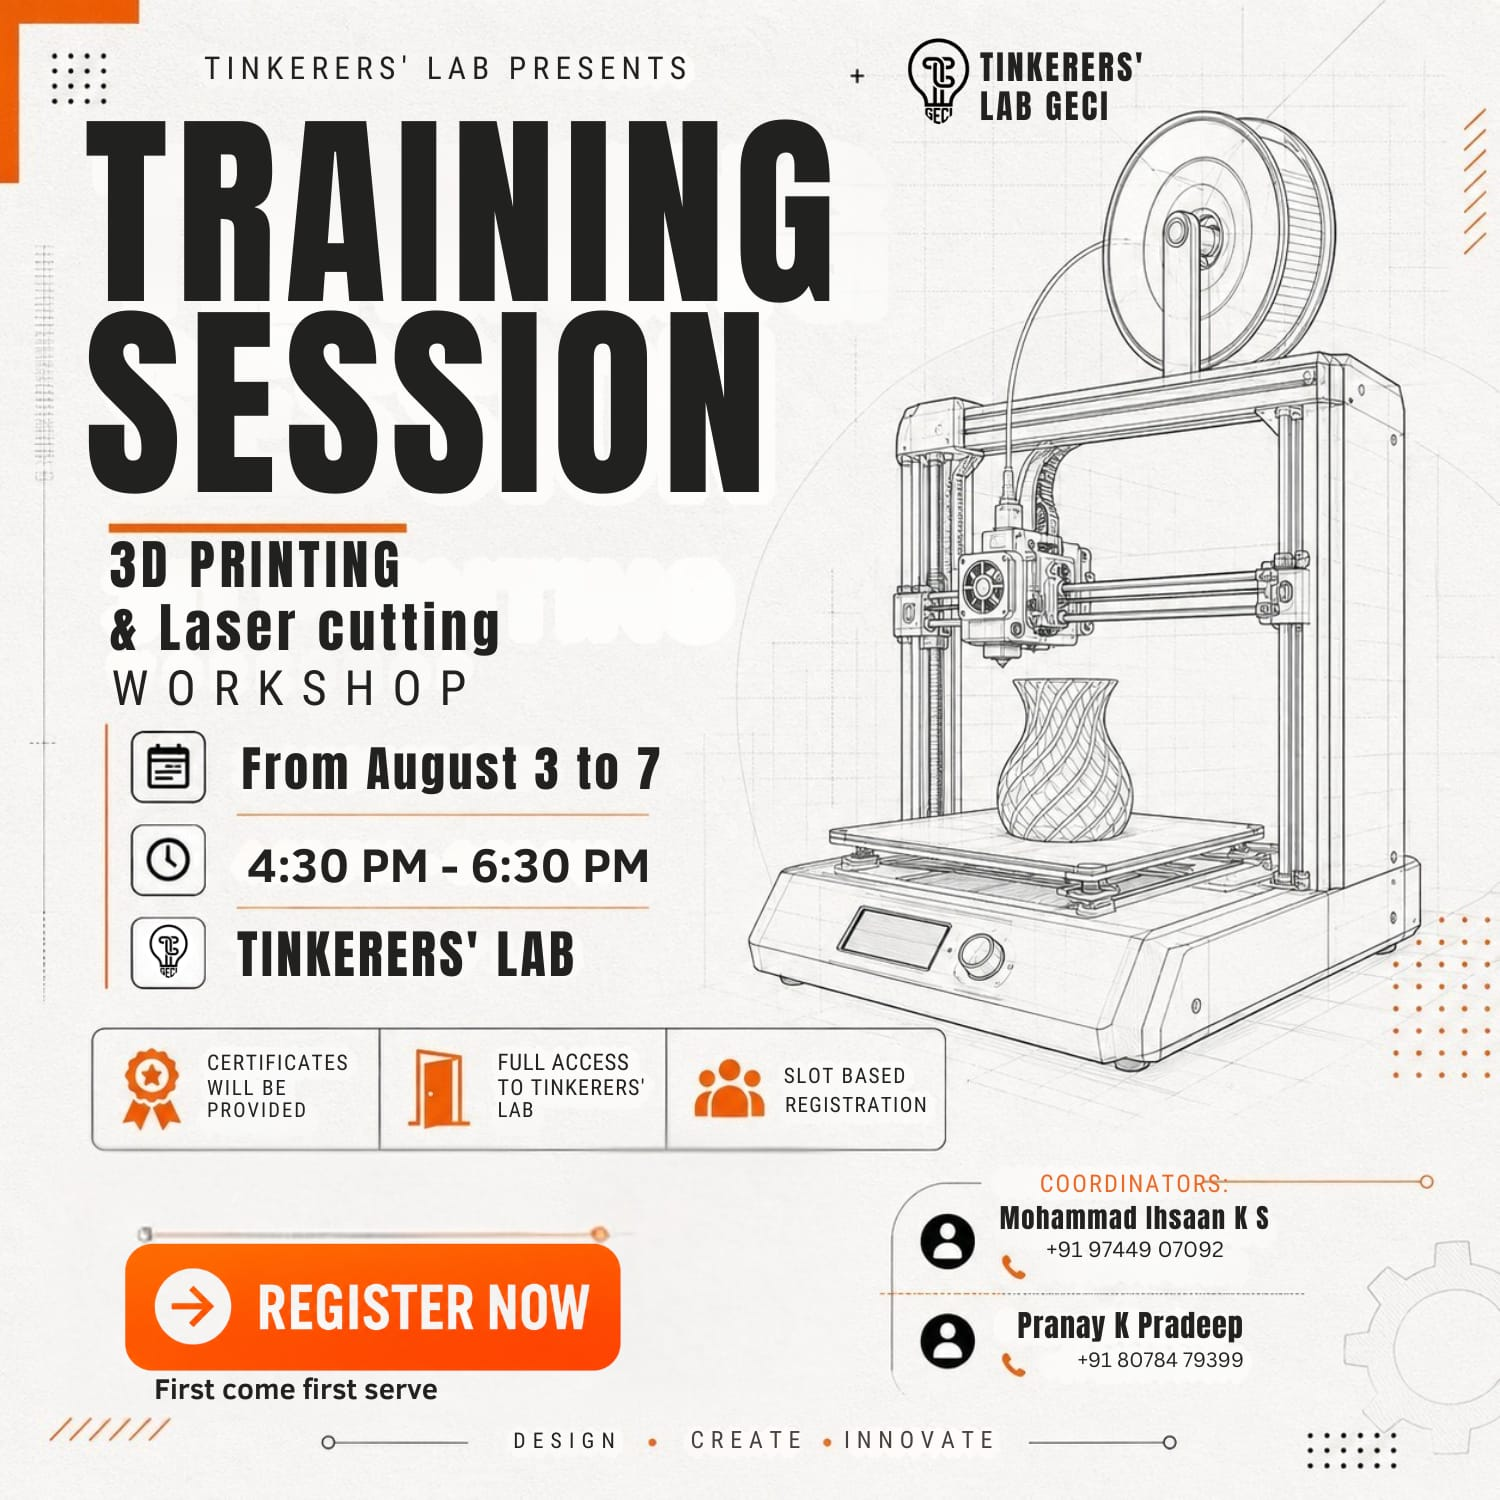
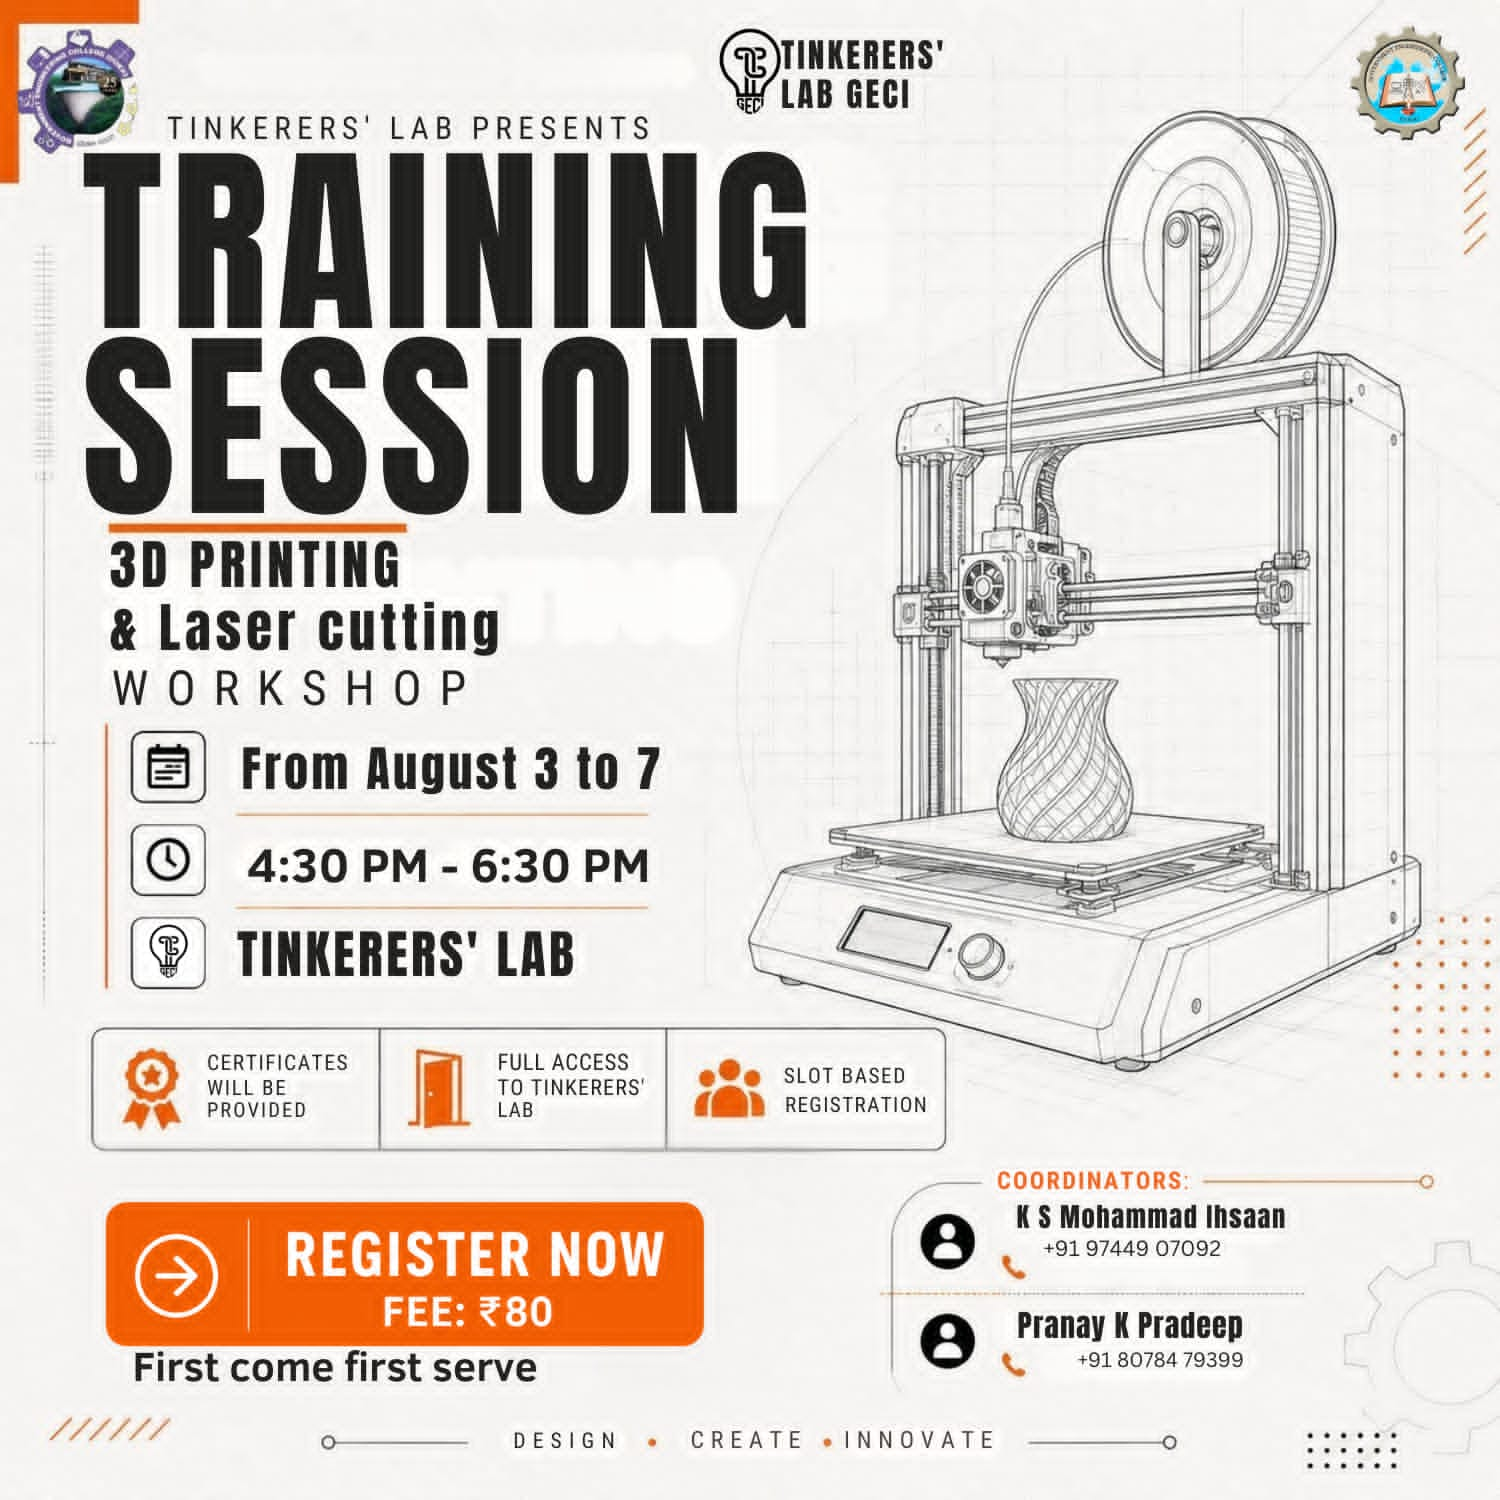
poster update

diff --git a/src/data/eventsData.js b/src/data/eventsData.js
@@ -7,9 +7,9 @@ export const allEvents = [
     time: '4:30 PM – 6:30 PM',
     venue: 'Tinkerers\' Lab, GECI',
     description:
-      '“Don’t Just Learn. Tinker.” Learn • Explore • Create. Get hands-on experience at Tinkerers\' Lab GECI through an interactive training session designed to help you explore and experiment with lab facilities.',
+      '“Don’t Just Learn. Tinker.” Learn • Explore • Create. Get hands-on experience at Tinkerers\' Lab GECI through an interactive training session designed to help you explore and experiment 3D printer and Laser cutter.',
     fullDescription:
-      '“Don’t Just Learn. Tinker.”\n\n⚡ TRAINING SESSION ⚡\nLearn • Explore • Create\n\nGet hands-on experience at the Tinkerers\' Lab GECI through an interactive training session designed to help you explore, learn, and experiment with the available facilities.\n\n📅 Date: August 3 to 7\n🕟 Time: 4:30 PM – 6:30 PM\n📍 Venue: Tinkerers\' Lab, GECI\n\nWHAT YOU GET:\n✨ Hands-on learning experience\n🔧 Full access to Tinkerers\' Lab\n🎓 Certificate of Participation\n\nREGISTER NOW - Limited slots available! (First Come, First Serve)\n\n💰 Registration Fee: ₹80\n\n📞 For any queries, contact:\nK S Mohammad Ihsaan: +91 97449 07092\nPranay K Pradeep: +91 80784 79399',
+      '“Don’t Just Learn. Tinker.”\n\n⚡ TRAINING SESSION ⚡\nLearn • Explore • Create\n\nGet hands-on experience at the Tinkerers\' Lab GECI through an interactive training session on 3D printer and Laser cutting , designed to help you explore, learn, and experiment with the available facilities.\n\n📅 Date: August 3 to 7\n🕟 Time: 4:30 PM – 6:30 PM\n📍 Venue: Tinkerers\' Lab, GECI\n\nWHAT YOU GET:\n✨ Hands-on learning experience\n🔧 Full access to Tinkerers\' Lab\n🎓 Certificate of Participation\n\nREGISTER NOW - Limited slots available! (First Come, First Serve)\n\n💰 Registration Fee: ₹80\n\n📞 For any queries, contact:\nK S Mohammad Ihsaan: +91 97449 07092\nPranay K Pradeep: +91 80784 79399',
     registrationUrl: 'https://forms.gle/NegcBsSx8MEREP8W8',
     posterSrc: '/posters/events/training.png',
     posterAlt: 'Training Session poster',
